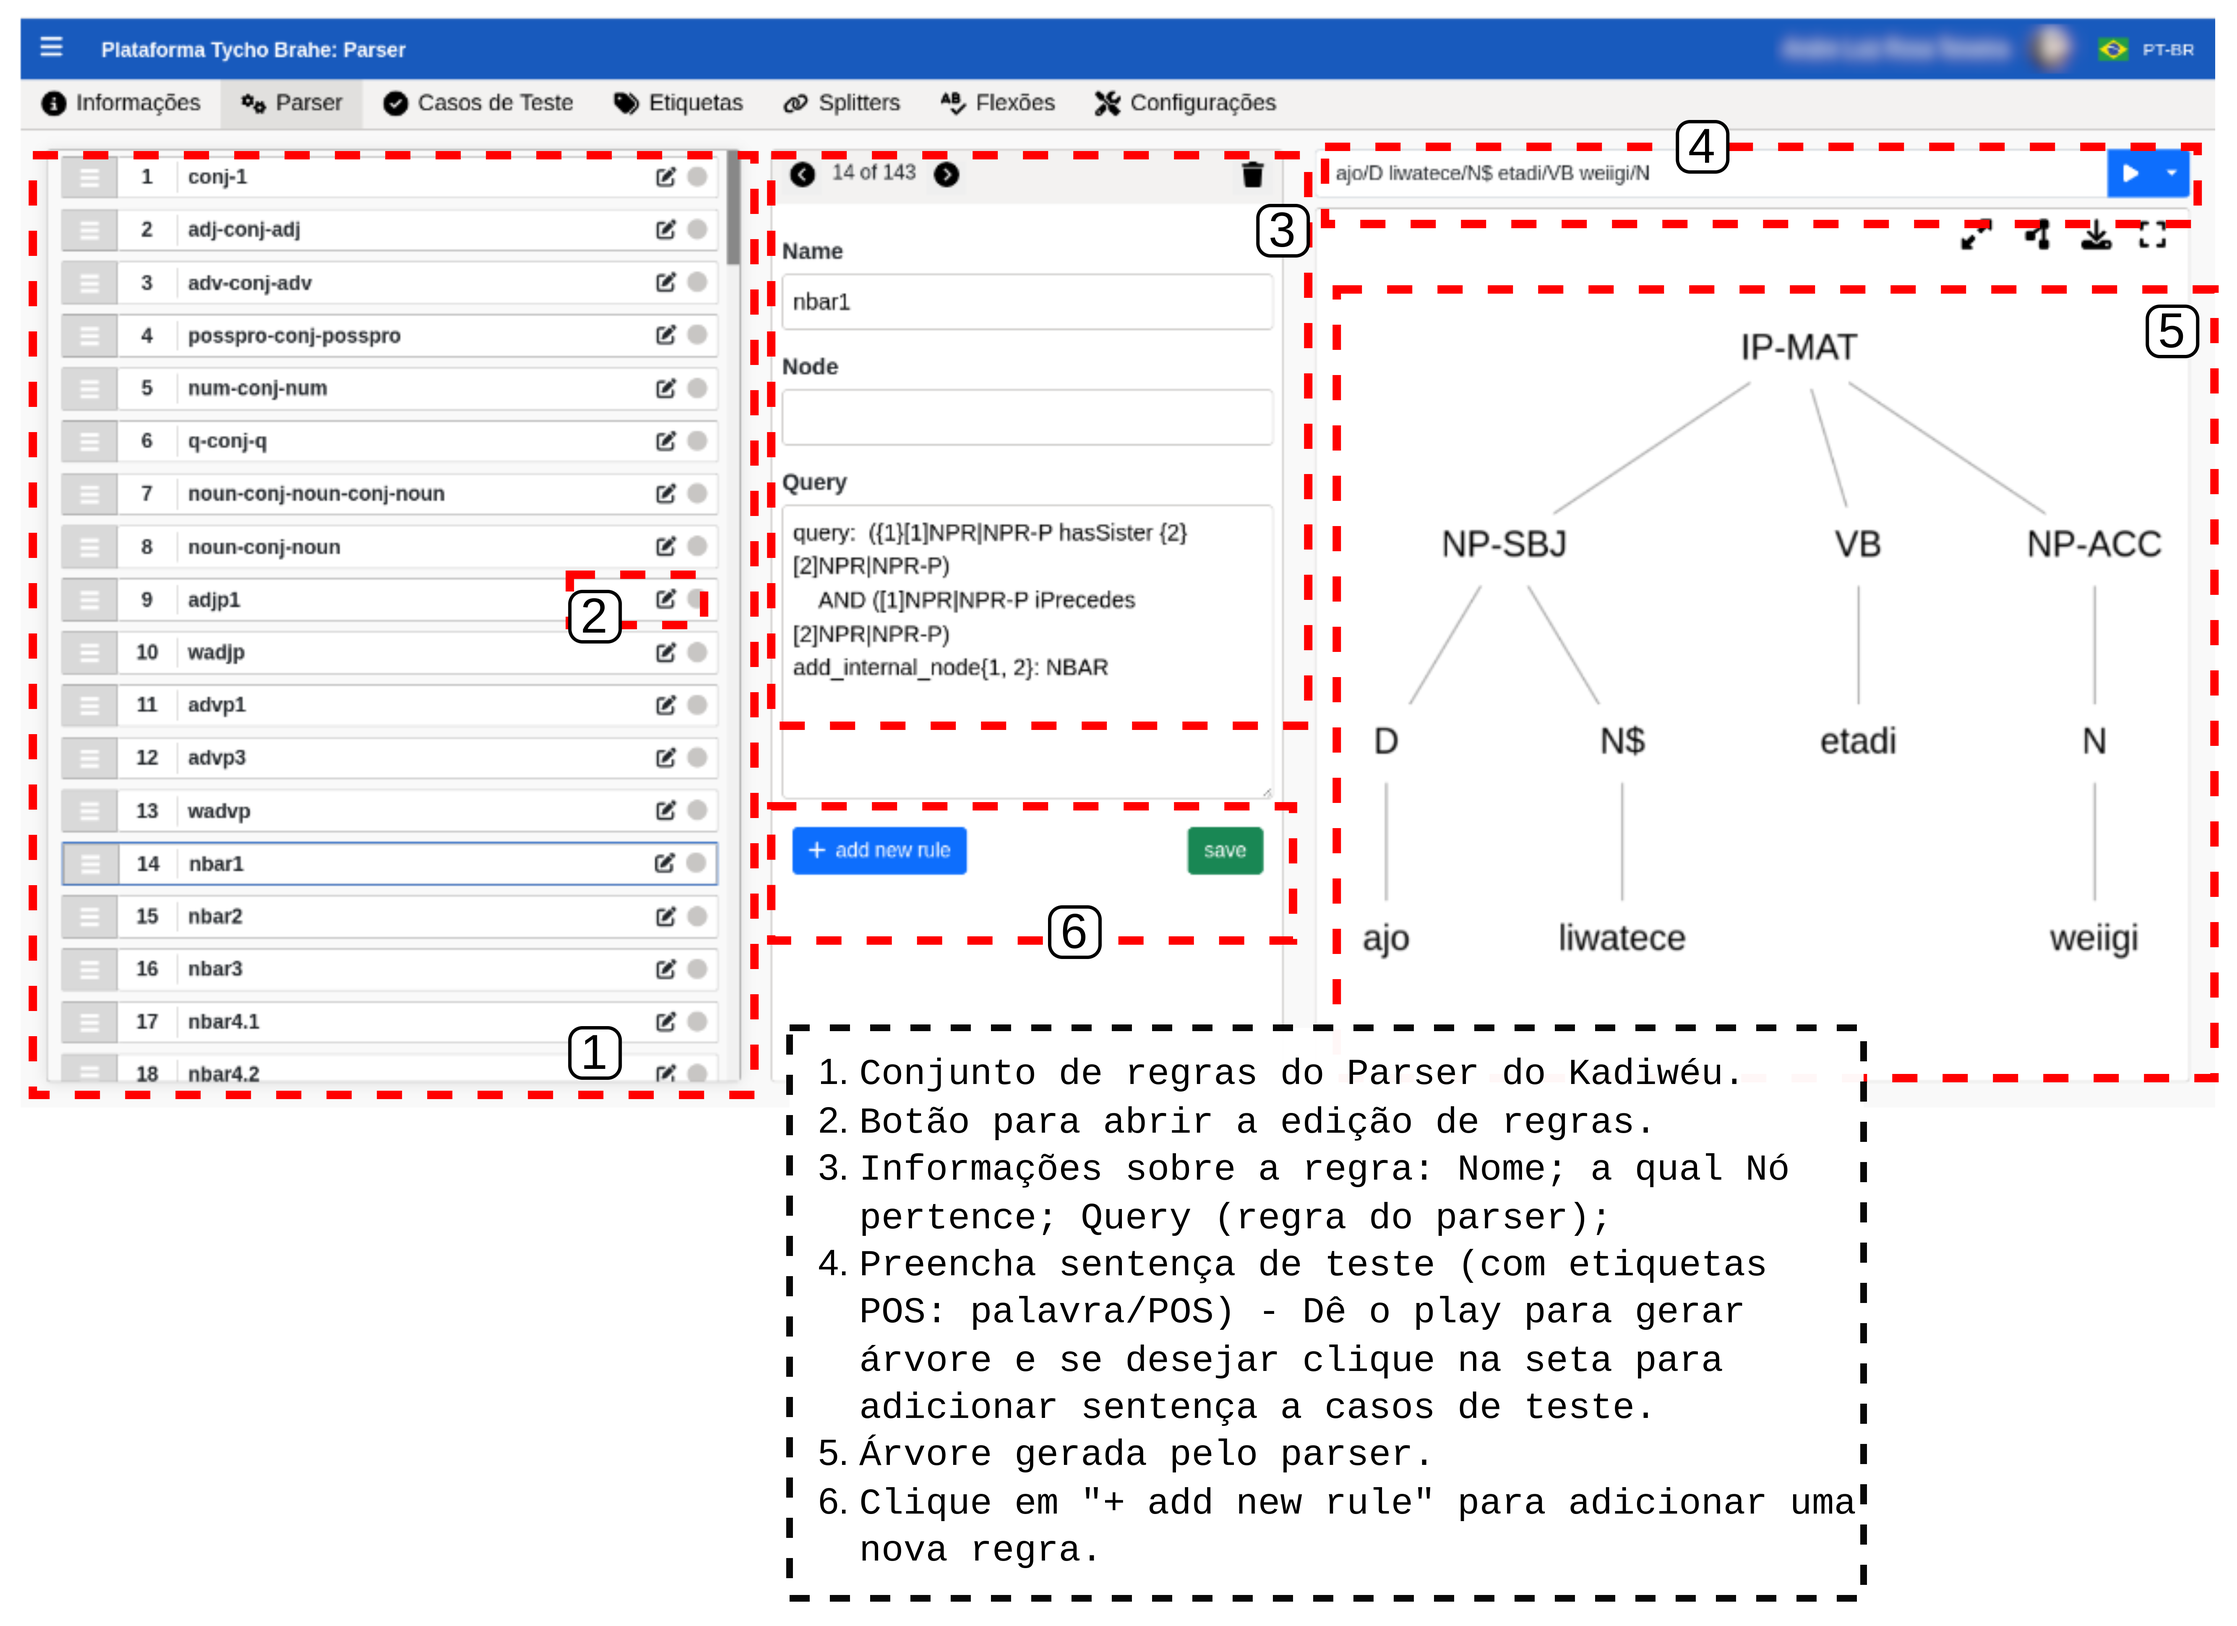
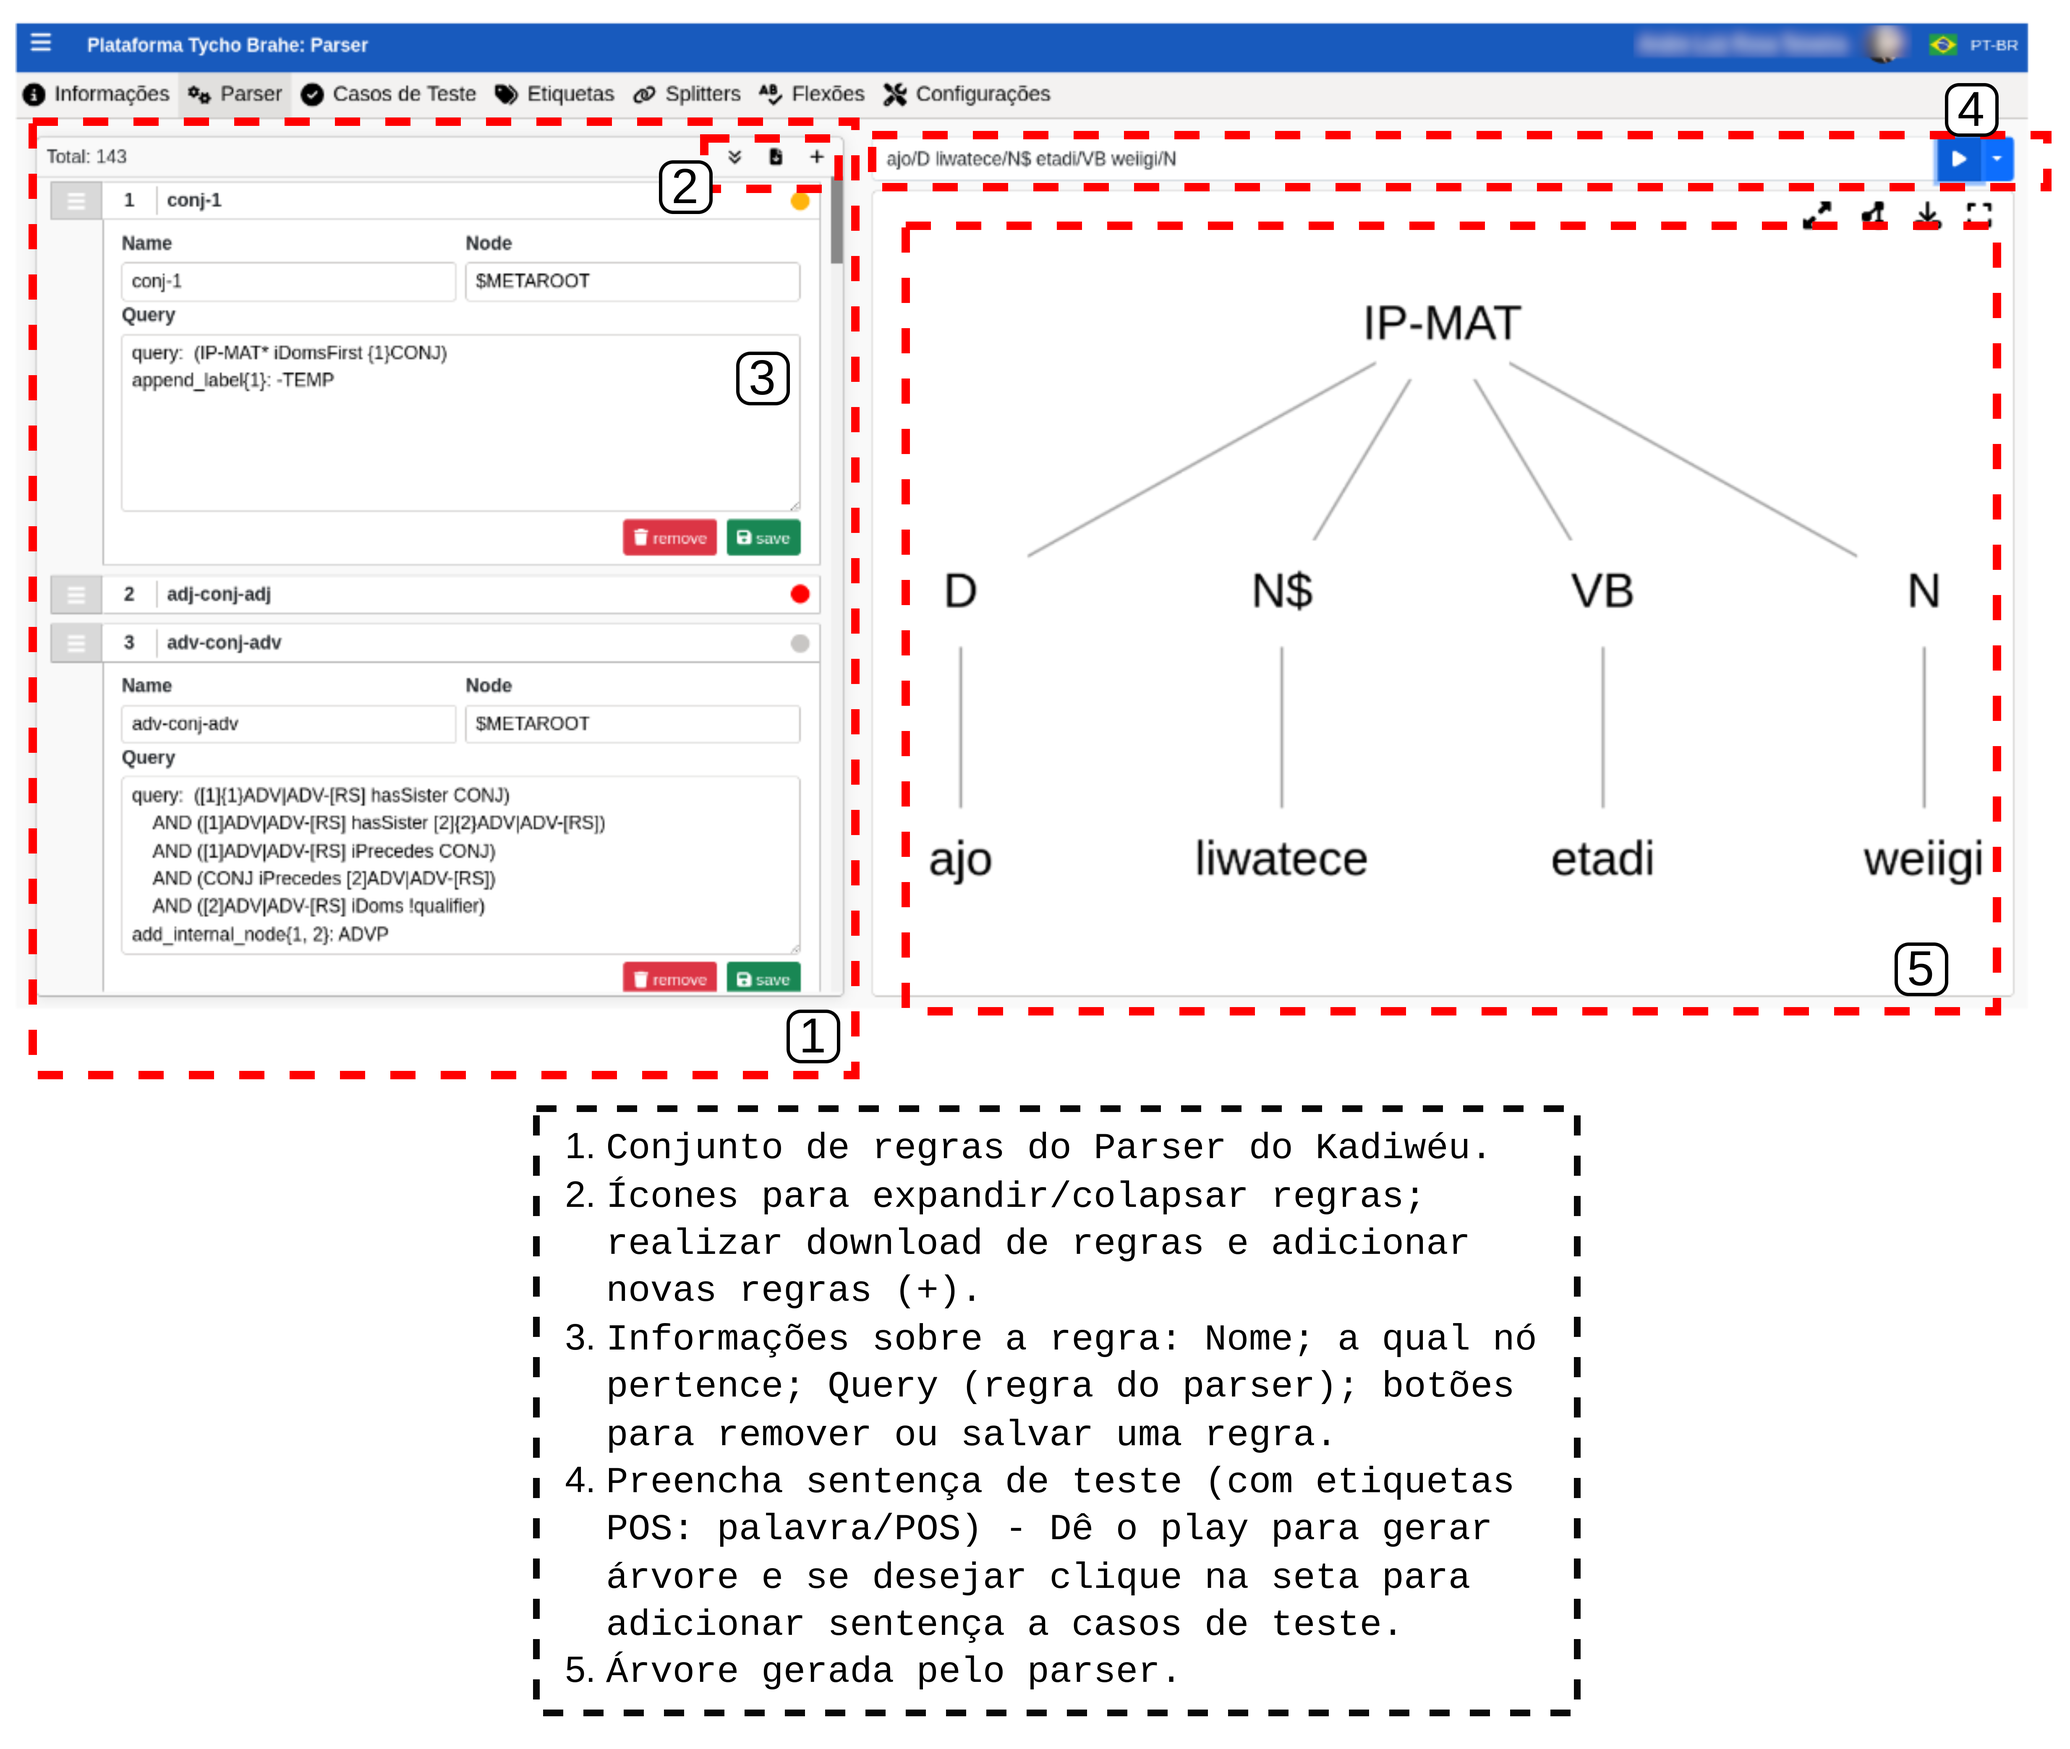
Tutorial Edição Parser 2

diff --git a/documentacao/documentacao_caso_05_edictor_translations.md b/documentacao/documentacao_caso_05_edictor_translations.md
@@ -50,13 +50,13 @@ A ferramenta **Use eDictor Translations** habilita o uso da versão eDictor para
 6. Na aba de ações que abre à esquerda, no campo "Continuar a edição do documento", clique na seta para abrir o menu de ferramentas de edição: selecionar o "eDictor Translations".
 
    1. Inserir textos (sentenças):
-      1. Selecionar "Inserir texto".
+      1. Selecionar "Adicionar texto".
       2. Inserir o texto fonte (original); selecionar o idioma de tradução; inserir texto traduzido. (Nota: sentenças a serem sincronizadas em paralelo podem ser separadas por quebra de linha).
       3. Clicar em "Salvar" para salvar transcrições.
       4. Clicar no botão "Sincronizar", para que as sentenças fonte e alvo sejam apresentados paralelamente.
       5. Clicar em "Inserir sentenças" para inserir sentenças paralelas no documento do corpus.
    2. Apagar textos transcritos (ainda não sincronizados):
-      1. Selecionar "Inserir texto"
+      1. Selecionar "Adicionar texto"
       2. Clicar em "Apagar" para apagar textos transcritos (Textos já sincronizados são mantidos)
    3. Editar sentenças sincronizadas:
 
@@ -72,7 +72,8 @@ A ferramenta **Use eDictor Translations** habilita o uso da versão eDictor para
             2. "Dividir": dividir palavra em duas.
             3. "Unir": unir palavras.
             4. "Variações".
-            5. "Remover": remover palavra 6. Para edições da sentença, clicar em "...":
+            5. "Remover": remover palavra 6. 
+            6. Para edições da sentença, clicar em "...":
 
                1. "Dividir": dividir sentença em duas (após token selecionado).
                2. "Unir": unir com sentença seguinte
@@ -150,7 +151,7 @@ Cont. Diagrama Caso de uso 5.01 - Ações no corpus <!--REVISAR: VOU TER DE MODI
 
    1. Para inserir textos (sentenças):
 
-      1. Selecione o botão "Inserir texto".
+      1. Selecione o botão "Inserir/Adicionar texto".
       2. Preencha o campo que apresenta "Digite ou cole o texto no idioma original" com o texto fonte (original); selecione o idioma de tradução; preencha o campo "Digite ou cole o texto traduzido em: [idioma selecionado para tradução]" com o texto traduzido.
       3. Clique em "Salvar" para salvar transcrições.
       4. Clique no botão "Sincronizar", para que as sentenças fonte e alvo sejam sincronizadas apresentadas paralelamente.
@@ -172,12 +173,15 @@ Cont. Diagrama Caso de uso 5.01 - Ações no corpus <!--REVISAR: VOU TER DE MODI
          5. Para outras edições da palavra: clique em "...":
             1. Clique em "inserir": inserir palavra á direita da palavra selecionada, preencha o campo e confirme!["edições palavra"](../imagens/edictor_edicao_sent_sincronizadas7.png)</br></br>
             2. Clique em "dividir": dividir palavra em dois tokens distintos![""](../imagens/edictor_edicao_sent_sincronizadas8-9.png)</br></br>
-            3. Clique em "unir" para unir o toke selecionado ao token seguinte na sentença: ![""](../imagens/edictor_edicao_sent_sincronizadas10.png)</br></br>
+            3. Clique em "unir" para unir o token selecionado ao token seguinte na sentença: ![""](../imagens/edictor_edicao_sent_sincronizadas10.png)</br></br>
             4. Clique em "Variações": o botão de variações apresenta todas as variações de etiquetas e glossas utilizadas para a palavra e salvas no banco de dados. Este botão permite um preenchimento mais rápido das informações sobre a palavra selecionada.
             5. Clique em "remover": remover palavra.![""](../imagens/edictor_edicao_sent_sincronizadas11.png)</br></br>
          6. Para edições da sentença, clicar em "...":
             1. "Dividir": dividir sentença em duas (após token selecionado)
-            2. "Unir": unir com sentença seguinte
+            2. "Unir": unir com sentença seguinte.
+               **Nota**: A função de Dividir e Unir sentenças não funciona se a sentença tiver traduções e áudios associados. Na tentativa, o sistema retorna uma mensagem de erro e a operação é impedida:
+
+         ![Erro união sentença](../imagens/edictor_erro_unir_sentenca.png)
       2. Via botão UD:
          1. Com o corpus já selecionado, selecione um par de sentenças.!["Seleciona sentença"](../imagens/edictor_edicao_sent_sincronizadas4.png)</br></br>
          2. Selecione botão UD (Dependências Universais).![""](../imagens/edictor_edicao_sent_sincronizadas12.png)</br></br>

diff --git a/documentacao/documentacao_edição_parser.md b/documentacao/documentacao_edição_parser.md
@@ -46,7 +46,7 @@ A ferramenta de construção de Parser possibilita a criação, edição e geren
 - **Aba "Parsers":**
 
   - Edição de regras:
-    - Selecionar uma regra (coluna à esquerda da janela) a ser editada ao clicar no botão de edição da regra. A coluna central apresenta os campos referentes à regra selecionada (Name; Node; Query: regra propriamente dita, escrita em sintaxe Corpus Search(Documentação acessível em: <https://corpussearch.sourceforge.net/>)).
+    - Selecionar uma regra a ser editada ao clicar sobre a regra. Abre-se uma área com os campos (Nome; Node; Query: regra propriamente dita, escrita em sintaxe Corpus Search(Documentação acessível em: <https://corpussearch.sourceforge.net/>)).
     - Se desejar, preencher uma sentença a ser análisada para testar o conjunto de regras (é possível adicionar paradas, em quaisquer das regras, para teste do parser: clicar no círculo à direita da regra - "add/remove breaking point"). É possível incluir a sentença testada nos casos de teste.
     - Adicionar regras: clicar no botão "+ add new rule", editar e salvar.
 
@@ -110,7 +110,7 @@ Este tutorial apresenta as edições possíveis nos parsers. As edições tratad
 - **Aba "Parsers":**
 
   - Edição de regras:
-    - Selecione uma regra (coluna à esquerda da janela) a ser editada ao clicar no botão de edição da regra. A coluna central apresenta os campos referentes à regra selecionada (Name; Node; Query: regra propriamente dita, escrita em sintaxe Corpus Search(Documentação acessível em: <https://corpussearch.sourceforge.net/>)). Além disso, é possível excluir a regra ao clicar no ícone com lixeira e confirmar.
+    - Selecione uma regra a ser editada ao clicar sobre ela. Apresentam-se campos referentes à regra selecionada (Nome; Node; Query: regra propriamente dita, escrita em sintaxe Corpus Search(Documentação acessível em: <https://corpussearch.sourceforge.net/>)). Além disso, é possível excluir a regra ao clicar no ícone com lixeira e confirmar.
     - Debugger: se desejar, preencha uma sentença a ser analisada para testar o conjunto de regras (é possível adicionar paradas (debugger), em quaisquer das regras, para teste do parser. Para marcar uma parada, clique no círculo à direita da regra - "add/remove breaking point"). É possível incluir a sentença testada nos casos de teste.
     - Adicionar regras: clique no botão "+ add new rule", edite (documentação corpus search em: <https://corpussearch.sourceforge.net/>) e salve.
 
